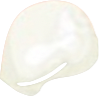
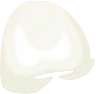
feat: 치료내역 모아보기 상세화면 수정(표시되는 치아 보라색으로, 병명항목 삭제 등)

diff --git a/src/main/webapp/resources/css/treatment/details.css b/src/main/webapp/resources/css/treatment/details.css
@@ -23,15 +23,24 @@
 	position: relative;
 	margin-bottom: 3rem;
 }
+.mouth__lower-jaw{
+	position: relative;
+}
 .upper-jaw__upper-gum {
 }
-.upper-jaw__upper-gum > img{
+.lower-jaw__lower-gum{
+}
+.upper-jaw__upper-gum > img,
+.lower-jaw__lower-gum > img { /* gum */
 	width: 100%;
 	filter: drop-shadow(.1rem .1rem .3rem rgba(0, 0, 0, 0.5));
 }
 .upper-jaw__upper-teeth {
 }
-.upper-jaw__upper-teeth > img{ /* tooth */
+.lower-jaw__lower-teeth{
+}
+.upper-jaw__upper-teeth > .tooth,
+.lower-jaw__lower-teeth > .tooth { /* tooth */
 	cursor: pointer;
 	position: absolute;
 	filter: drop-shadow(.0rem .1rem .3rem rgba(0, 0, 0, 0.5))
@@ -41,22 +50,13 @@
 	/* background-color: rgba(0, 0, 0, 0.5); */
   /* opacity: 0.0; */
 }
-.marked-teeth {
-	filter: drop-shadow(0 0 0.5rem var(--osstem-orange)) !important;
-	width: 110%;
+.marked-tooth {
+	filter: drop-shadow(.0rem .1rem .3rem rgba(0, 0, 0, 0.5))
+					hue-rotate(0deg) !important;
 }
-.upper-jaw__upper-teeth > img:hover{
+.upper-jaw__upper-teeth > .tooth:hover,
+.lower-jaw__lower-teeth > .tooth:hover {
 	margin-top: -0.1rem;
-}
-.mouth__lower-jaw{
-}
-.lower-jaw__lower-gum{
-}
-.lower-jaw__lower-gum > img{
-	width: 100%;
-	filter: drop-shadow(.1rem .1rem .3rem rgba(0, 0, 0, 0.5));
-}
-.lower-jaw__lower-teeth{
 }
 
 /* treatment description section */

diff --git a/src/main/webapp/resources/css/common/list-item.css b/src/main/webapp/resources/css/common/list-item.css
@@ -1,5 +1,4 @@
 /*
-
 **list-item.css 사용 가이드**
 작성자: 공희재
 
